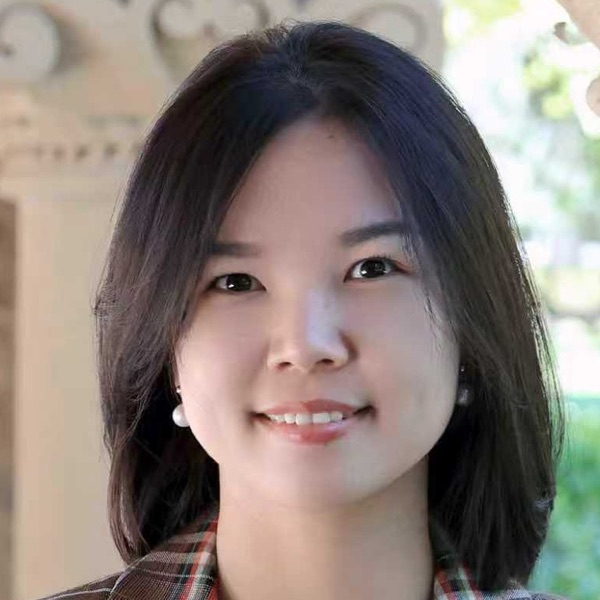
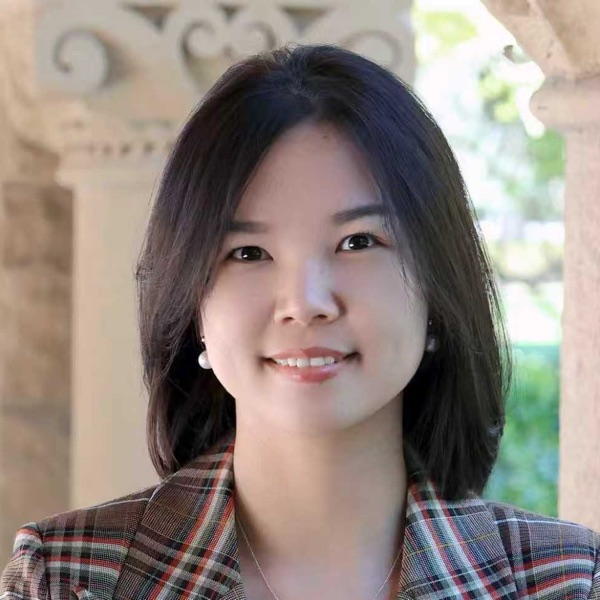
Widen portrait framing to show shoulders

diff --git a/assets/portraits.css b/assets/portraits.css
@@ -13,22 +13,22 @@
   transform:translate(var(--portrait-x,0%),var(--portrait-y,0%)) scale(var(--portrait-scale,1));
 }
 
-.portrait--lawrence-fung { --portrait-scale:1.654; --portrait-x:-25.73%; --portrait-y:0%; }
-.portrait--sara-kolb { --portrait-scale:1.115; --portrait-x:-9.28%; --portrait-y:-1.07%; }
-.portrait--yu-sun { --portrait-scale:1.232; --portrait-x:-7.38%; --portrait-y:-8.76%; }
-.portrait--casey-ma { --portrait-scale:1.299; --portrait-x:-12.53%; --portrait-y:-7.17%; }
-.portrait--tingting-chen { --portrait-scale:1.564; --portrait-x:-32.51%; --portrait-y:-10.98%; }
-.portrait--jun-hu { --portrait-scale:1.797; --portrait-x:-37.92%; --portrait-y:-29.12%; }
-.portrait--jin-xu { --portrait-scale:1.068; --portrait-x:-1.36%; --portrait-y:-6.64%; }
-.portrait--glen-qin { --portrait-scale:1.133; --portrait-x:-9.36%; --portrait-y:-4.77%; }
-.portrait--kaushal-patel { --portrait-scale:1; --portrait-x:0%; --portrait-y:0%; }
-.portrait--xiaoliang-lu { --portrait-scale:1.307; --portrait-x:-13.91%; --portrait-y:-5.4%; }
-.portrait--michael-chang { --portrait-scale:1.198; --portrait-x:-13.48%; --portrait-y:-4.88%; }
-.portrait--gisela { --portrait-scale:1.362; --portrait-x:-18.64%; --portrait-y:-14.61%; }
-.portrait--lucy-liu { --portrait-scale:1.274; --portrait-x:-13.07%; --portrait-y:-7.52%; }
-.portrait--sophia-shao { --portrait-scale:1.491; --portrait-x:-24.31%; --portrait-y:-18.5%; }
-.portrait--jannie-tang { --portrait-scale:1.134; --portrait-x:-5.53%; --portrait-y:-3.57%; }
-.portrait--william-lu { --portrait-scale:1.898; --portrait-x:-47.58%; --portrait-y:-18.18%; }
-.portrait--steven-yang { --portrait-scale:1; --portrait-x:0%; --portrait-y:0%; }
-.portrait--irene-zhang { --portrait-scale:1; --portrait-x:0%; --portrait-y:0%; }
-.portrait--luwen-wan { --portrait-scale:1; --portrait-x:0%; --portrait-y:0%; }
+.portrait--lawrence-fung { --portrait-scale:1.323; --portrait-x:-10.58%; --portrait-y:0.0%; }
+.portrait--sara-kolb { --portrait-scale:1.0; --portrait-x:-0.0%; --portrait-y:0.0%; }
+.portrait--yu-sun { --portrait-scale:1.0; --portrait-x:0.0%; --portrait-y:-0.0%; }
+.portrait--casey-ma { --portrait-scale:1.039; --portrait-x:-0.02%; --portrait-y:-0.74%; }
+.portrait--tingting-chen { --portrait-scale:1.251; --portrait-x:-16.01%; --portrait-y:-3.78%; }
+.portrait--jun-hu { --portrait-scale:1.438; --portrait-x:-20.34%; --portrait-y:-18.3%; }
+.portrait--jin-xu { --portrait-scale:1.0; --portrait-x:0.0%; --portrait-y:-0.0%; }
+.portrait--glen-qin { --portrait-scale:1.0; --portrait-x:-0.0%; --portrait-y:-0.0%; }
+.portrait--kaushal-patel { --portrait-scale:1.0; --portrait-x:-0.0%; --portrait-y:0.0%; }
+.portrait--xiaoliang-lu { --portrait-scale:1.046; --portrait-x:-1.13%; --portrait-y:0.0%; }
+.portrait--michael-chang { --portrait-scale:1.0; --portrait-x:-0.0%; --portrait-y:0.0%; }
+.portrait--gisela { --portrait-scale:1.09; --portrait-x:-4.91%; --portrait-y:-6.69%; }
+.portrait--lucy-liu { --portrait-scale:1.019; --portrait-x:-0.46%; --portrait-y:-1.02%; }
+.portrait--sophia-shao { --portrait-scale:1.193; --portrait-x:-9.45%; --portrait-y:-9.8%; }
+.portrait--jannie-tang { --portrait-scale:1.0; --portrait-x:0.0%; --portrait-y:-0.0%; }
+.portrait--william-lu { --portrait-scale:1.518; --portrait-x:-28.06%; --portrait-y:-9.54%; }
+.portrait--steven-yang { --portrait-scale:1.0; --portrait-x:-0.0%; --portrait-y:0.0%; }
+.portrait--irene-zhang { --portrait-scale:1.0; --portrait-x:-0.0%; --portrait-y:0.0%; }
+.portrait--luwen-wan { --portrait-scale:1.0; --portrait-x:-0.0%; --portrait-y:0.0%; }
